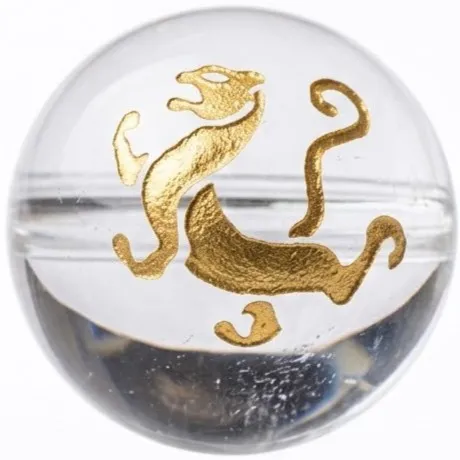
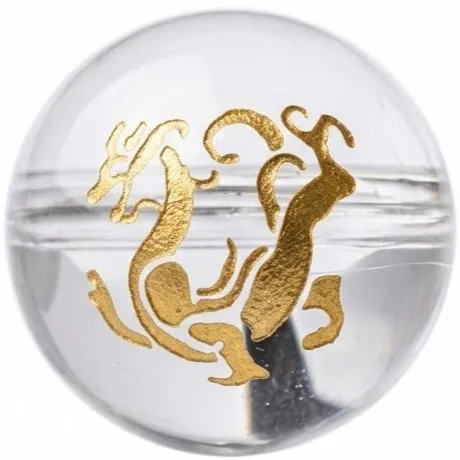
Add files via upload

diff --git a/public/oem/index.html b/public/oem/index.html
@@ -59,33 +59,38 @@
       "mainEntity": [
         {
           "@type": "Question",
-          "name": "天然石OEMと天然石受託製造は同じ意味ですか？",
-          "acceptedAnswer": { "@type": "Answer", "text": "はい。当社では、法人・団体様からご依頼いただいた仕様に基づいて天然石ブレスレットや天然石ビーズ製品などを製造することを「天然石OEM・天然石受託製造」とご案内しています。" }
-        },
-        {
-          "@type": "Question",
           "name": "小ロットからでも相談できますか？",
           "acceptedAnswer": { "@type": "Answer", "text": "ご希望の数量に応じて、小ロットから大口注文まで幅広くご相談いただけます。まずはご希望の製品と数量をお問い合わせください。" }
         },
         {
           "@type": "Question",
-          "name": "神社仏閣向けの授与品も製造できますか？",
-          "acceptedAnswer": { "@type": "Answer", "text": "はい。神社仏閣向け授与品・ブレスレットの製造実績があります。" }
-        },
-        {
-          "@type": "Question",
           "name": "天然石ビーズに文字や模様を彫刻できますか？",
-          "acceptedAnswer": { "@type": "Answer", "text": "はい。天然石ビーズへの文字・模様の彫刻に対応しています。" }
+          "acceptedAnswer": { "@type": "Answer", "text": "はい。天然石ビーズへの文字・模様の彫刻に対応しています。オリジナルのロゴやデザインの彫刻もご相談ください。" }
         },
         {
           "@type": "Question",
           "name": "海外工場でも製造されるのですか？",
-          "acceptedAnswer": { "@type": "Answer", "text": "国内の自社工房と海外の協力工場を活かし、内容に応じて製造しています。" }
+          "acceptedAnswer": { "@type": "Answer", "text": "国内の自社工房と海外の協力工場を活かし、内容に応じて製造しています。品質重視の細やかな加工から、コストを抑えた大ロット生産まで柔軟に対応可能です。" }
         },
         {
           "@type": "Question",
-          "name": "個人でも天然石の加工を依頼できますか？",
-          "acceptedAnswer": { "@type": "Answer", "text": "個人のお客様が天然石・原石を持ち込んで加工を依頼される場合は、天然石加工の依頼ページをご覧ください。お問い合わせフォームは共通ですので、どちらの窓口からでもご相談いただけます。" }
+          "name": "特定の天然石を探して調達してもらうことは可能ですか？",
+          "acceptedAnswer": { "@type": "Answer", "text": "はい、対応可能です。国内外の幅広い独自の仕入れネットワークを活かし、ご希望の石材をお探しいたします。希少な石や特殊なカットの場合はお時間をいただく場合がございます。" }
+        },
+        {
+          "@type": "Question",
+          "name": "量産（本生産）の前にサンプルを作成して確認することはできますか？",
+          "acceptedAnswer": { "@type": "Answer", "text": "はい、可能です。本格的な量産に入る前に試作品（サンプル）を作成し、デザイン、石の色合いや品質、サイズ感などをご納得いただいた上で本生産に進みますのでご安心ください。" }
+        },
+        {
+          "@type": "Question",
+          "name": "アクセサリーのデザイン案がない状態からでも依頼できますか？",
+          "acceptedAnswer": { "@type": "Answer", "text": "もちろんです。「こんな雰囲気のブレスレットを作りたい」「ターゲット層に合わせた石を提案してほしい」といった、ふんわりとしたイメージの段階からでも、専任スタッフが企画・デザインをご提案いたします。" }
+        },
+        {
+          "@type": "Question",
+          "name": "注文から納品まで、納期はどのくらいかかりますか？",
+          "acceptedAnswer": { "@type": "Answer", "text": "仕様や数量、使用する石の調達状況によりますが、デザインや仕様の決定後、概ね2ヶ月程度での納品が目安となります。お急ぎの案件や、特定のイベントに合わせた納品をご希望の場合は、事前にお知らせください。" }
         }
       ]
     }
@@ -123,7 +128,7 @@
 </div></section>
 
 <!-- 天然石OEM・受託製造のよくある質問 -->
-<section class="section intro" id="faq"><div class="container"><div class="section-head"><p class="eyebrow" style="color:#6f7e92">FAQ</p><h2>天然石OEM・受託製造のよくある質問</h2></div><div class="faq-list" style="max-width:760px;margin-left:auto;margin-right:auto;background:#fff"><div class="faq-item"><h3>Q. 天然石OEMと天然石受託製造は同じ意味ですか？</h3><p>A. はい。法人・団体様からご依頼いただいた仕様に基づいて天然石ブレスレットや天然石ビーズ製品などを製造することを「天然石OEM・天然石受託製造」とご案内しています。</p></div><div class="faq-item"><h3>Q. 小ロットからでも相談できますか？</h3><p>A. ご希望の数量に応じて、小ロットから大口注文まで幅広くご相談いただけます。まずはご希望の製品と数量をお問い合わせください。</p></div><div class="faq-item"><h3>Q. 神社仏閣向けの授与品も製造できますか？</h3><p>A. はい。神社仏閣向け授与品・ブレスレットの製造実績があります。</p></div><div class="faq-item"><h3>Q. 天然石ビーズに文字や模様を彫刻できますか？</h3><p>A. はい。天然石ビーズへの文字・模様の彫刻に対応しています。</p></div><div class="faq-item"><h3>Q. 海外工場でも製造されるのですか？</h3><p>A. 国内の自社工房と海外の協力工場を活かし、内容に応じて製造しています。</p></div><div class="faq-item"><h3>Q. 個人でも天然石の加工を依頼できますか？</h3><p>A. 個人のお客様が天然石・原石を持ち込んで加工を依頼される場合は、<a href="/stonework/" style="text-decoration:underline">天然石加工の依頼ページ</a>をご覧ください。お問い合わせフォームは共通ですので、どちらの窓口からでもご相談いただけます。</p></div></div></div></section>
+<section class="section intro" id="faq"><div class="container"><div class="section-head"><p class="eyebrow" style="color:#6f7e92">FAQ</p><h2>天然石OEM・受託製造のよくある質問</h2></div><div class="faq-list" style="max-width:760px;margin-left:auto;margin-right:auto;background:#fff"><div class="faq-item"><h3>Q. 小ロットからでも相談できますか？</h3><p>A. ご希望の数量に応じて、小ロットから大口注文まで幅広くご相談いただけます。まずはご希望の製品と数量をお問い合わせください。</p></div><div class="faq-item"><h3>Q. 天然石ビーズに文字や模様を彫刻できますか？</h3><p>A. はい。天然石ビーズへの文字・模様の彫刻に対応しています。オリジナルのロゴやデザインの彫刻もご相談ください。</p></div><div class="faq-item"><h3>Q. 海外工場でも製造されるのですか？</h3><p>A. 国内の自社工房と海外の協力工場を活かし、内容に応じて製造しています。品質重視の細やかな加工から、コストを抑えた大ロット生産まで柔軟に対応可能です。</p></div><div class="faq-item"><h3>Q. 特定の天然石を探して調達してもらうことは可能ですか？</h3><p>A. はい、対応可能です。国内外の幅広い独自の仕入れネットワークを活かし、ご希望の石材をお探しいたします。希少な石や特殊なカットの場合はお時間をいただく場合がございます。</p></div><div class="faq-item"><h3>Q. 量産（本生産）の前にサンプルを作成して確認することはできますか？</h3><p>A. はい、可能です。本格的な量産に入る前に試作品（サンプル）を作成し、デザイン、石の色合いや品質、サイズ感などをご納得いただいた上で本生産に進みますのでご安心ください。</p></div><div class="faq-item"><h3>Q. アクセサリーのデザイン案がない状態からでも依頼できますか？</h3><p>A. もちろんです。「こんな雰囲気のブレスレットを作りたい」「ターゲット層に合わせた石を提案してほしい」といった、ふんわりとしたイメージの段階からでも、専任スタッフが企画・デザインをご提案いたします。</p></div><div class="faq-item"><h3>Q. 注文から納品まで、納期はどのくらいかかりますか？</h3><p>A. 仕様や数量、使用する石の調達状況によりますが、デザインや仕様の決定後、概ね2ヶ月程度での納品が目安となります。お急ぎの案件や、特定のイベントに合わせた納品をご希望の場合は、事前にお知らせください。</p></div></div></div></section>
 
 <section class="cta" id="contact-cta"><div class="container"><p class="eyebrow" style="color:rgba(255,255,255,.6)">CONTACT</p><h2>法人向けお問い合わせ</h2><p class="lead">天然石ブレスレットの製造、授与品の製造、天然石ビーズ製品のOEM・受託製造など、法人・団体様からのご相談は下記フォームより承ります。</p><a class="button" href="/?oem=1#contact">法人向けお問い合わせはこちら</a><p class="note">製造したい製品・数量・参考画像など、分かる範囲で構いません。まずはお気軽にお問い合わせください。</p></div></section>
 </main>
